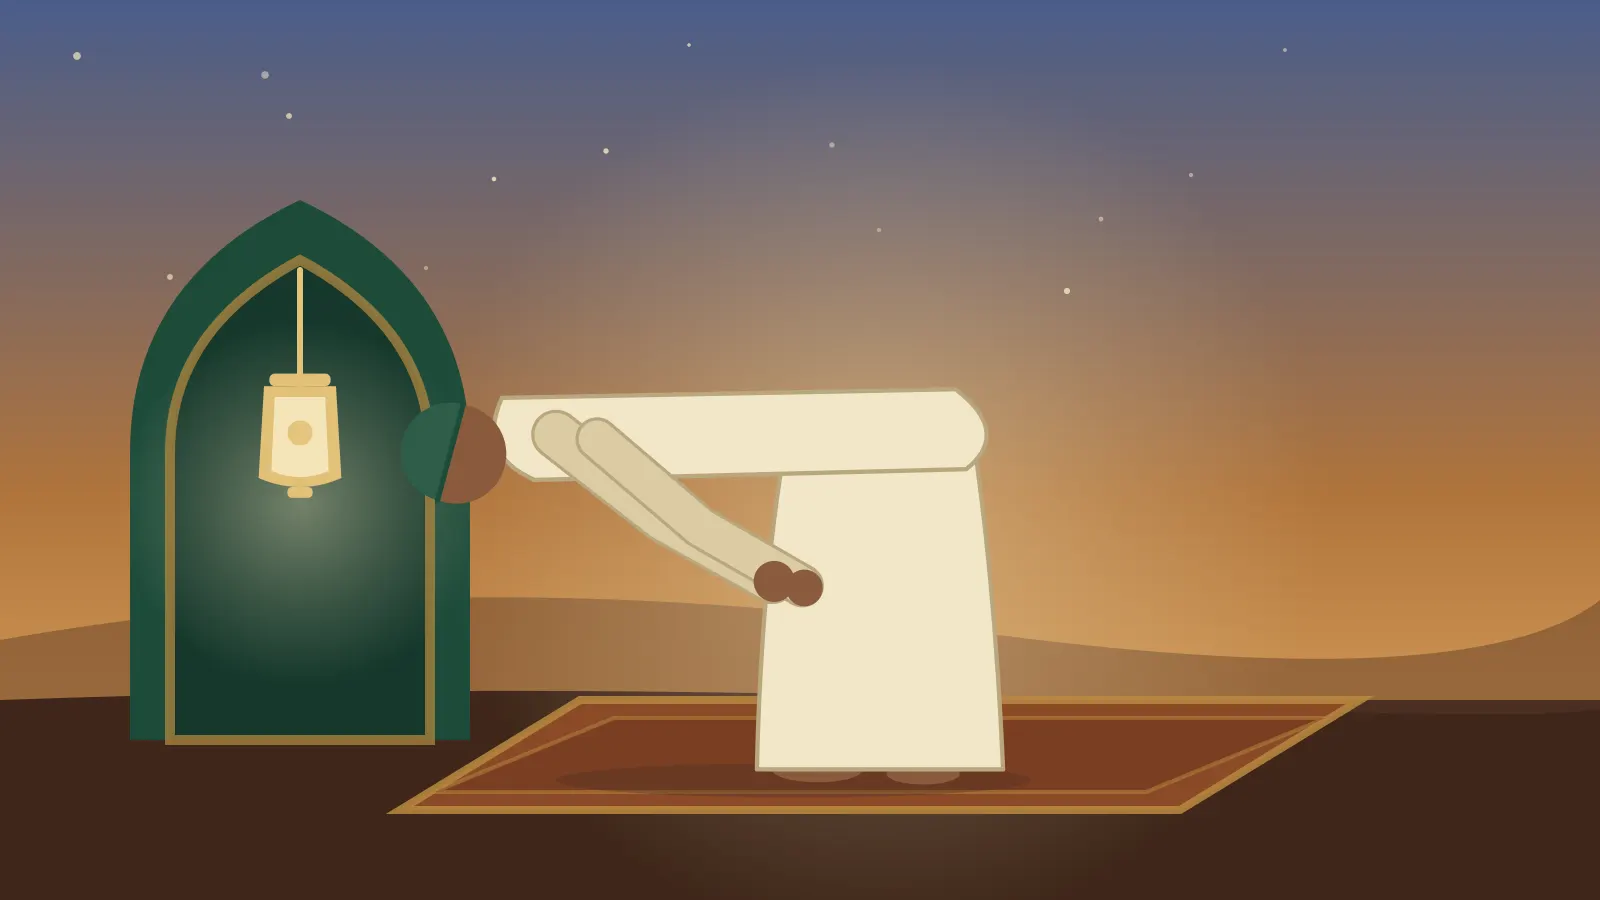
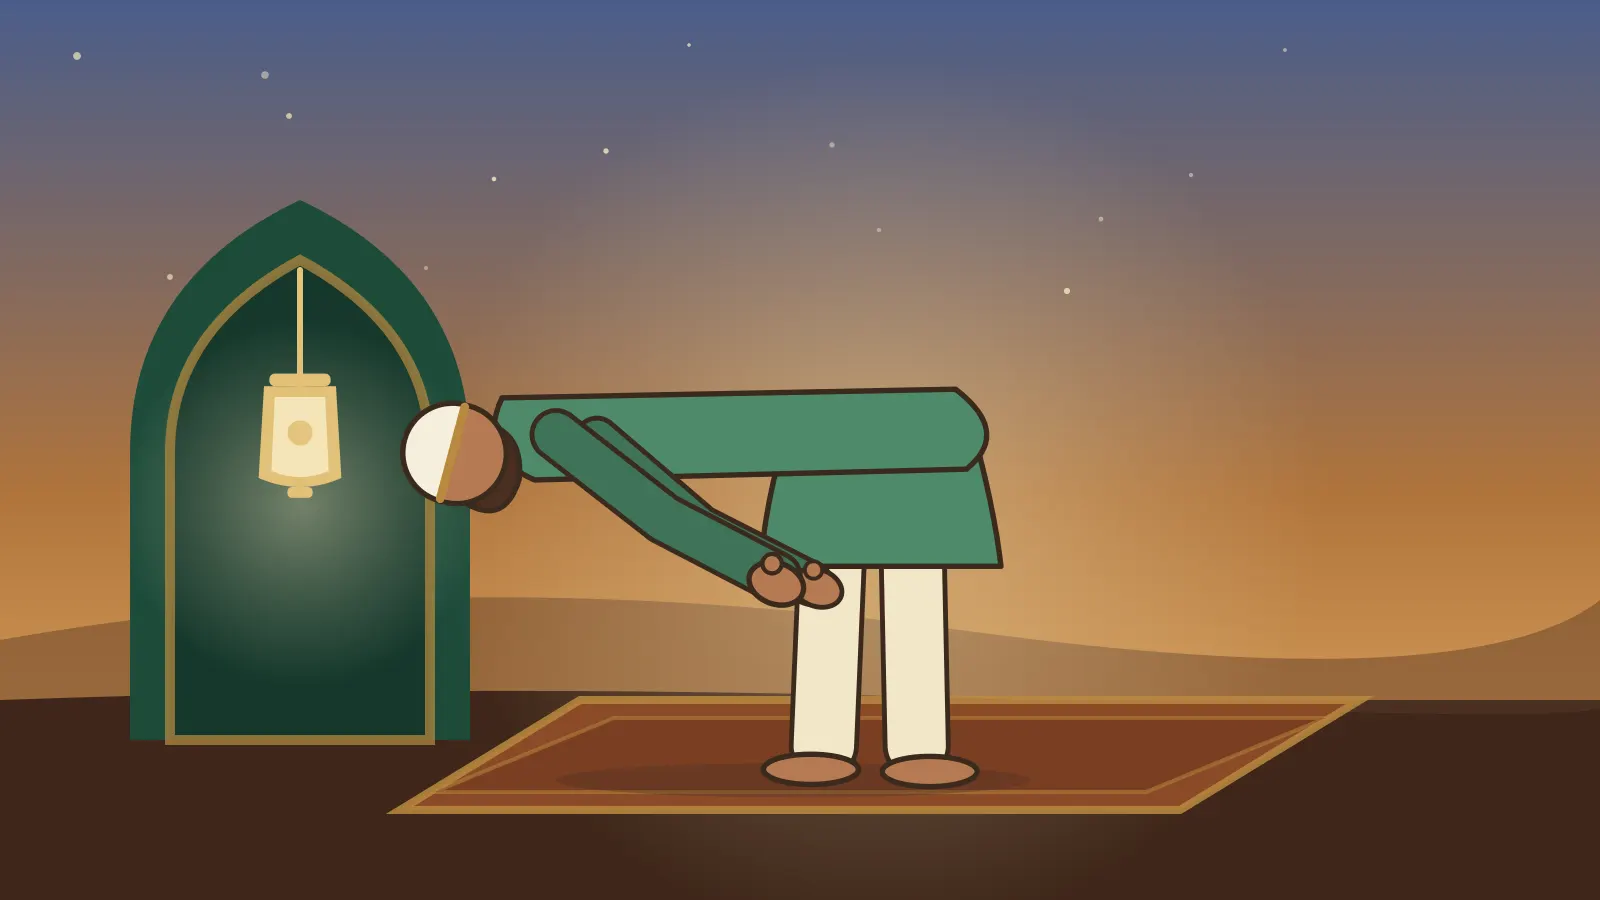
salah trainer: an outlined figure that reads like a diagram, and a takbir pose
Borrowed from the clearest guides in the store: ink outlines around every
shape, a coloured kurta over ivory trousers so the legs read as legs,
mitten hands placed where each posture puts them, and a cap and beard
that turn with the head while the face stays blank. The kurta is the
app's emerald against the dawn sky.

The takbir gets its own posture: hands raised beside the ears for the
opening takbir and every rising takbir, in the scene, in the vector
figure, and in the data. Nine scenes now, 21–24 KB each.

Changed region(s): [[0.25, 0.4044, 0.625, 0.9022]]

diff --git a/lib/features/learn/salah/widgets/prayer_posture_animator.dart b/lib/features/learn/salah/widgets/prayer_posture_animator.dart
@@ -119,6 +119,20 @@ class _Pose {
     handB: Offset(0.51, 0.47),
   );
 
+  static const _handsRaised = _Pose(
+    head: Offset(0.50, 0.17),
+    neck: Offset(0.50, 0.29),
+    hip: Offset(0.50, 0.57),
+    kneeF: Offset(0.47, 0.76),
+    kneeB: Offset(0.53, 0.76),
+    footF: Offset(0.44, 0.93),
+    footB: Offset(0.56, 0.93),
+    elbowF: Offset(0.36, 0.36),
+    handF: Offset(0.38, 0.18),
+    elbowB: Offset(0.64, 0.36),
+    handB: Offset(0.62, 0.18),
+  );
+
   static const _armsDown = _Pose(
     head: Offset(0.50, 0.17),
     neck: Offset(0.50, 0.29),
@@ -191,6 +205,8 @@ class _Pose {
 
   static _Pose of(PrayerPostureType posture) {
     switch (posture) {
+      case PrayerPostureType.takbir:
+        return _handsRaised;
       case PrayerPostureType.qiyam:
         return _standing;
       case PrayerPostureType.qawmah:

diff --git a/lib/features/learn/salah/data/salah_trainer_data.dart b/lib/features/learn/salah/data/salah_trainer_data.dart
@@ -223,7 +223,7 @@ class _SalahSteps {
       id: 'takbir_al_ihram',
       title: l10n.salahTrainerStepTakbirAlIhramTitle,
       kind: SalahRecitationKind.takbir,
-      posture: PrayerPostureType.qiyam,
+      posture: PrayerPostureType.takbir,
       arabic: 'اللَّهُ أَكْبَرُ',
       transliteration: 'Allahu akbar.',
       translation: l10n.salahTrainerStepTakbirTranslation,
@@ -240,7 +240,7 @@ class _SalahSteps {
       id: 'takbir_rising',
       title: l10n.salahTrainerStepTakbirRisingTitle,
       kind: SalahRecitationKind.takbir,
-      posture: PrayerPostureType.qiyam,
+      posture: PrayerPostureType.takbir,
       arabic: 'اللَّهُ أَكْبَرُ',
       transliteration: 'Allahu akbar.',
       translation: l10n.salahTrainerStepTakbirTranslation,

diff --git a/lib/features/learn/salah/widgets/salah_posture_art.dart b/lib/features/learn/salah/widgets/salah_posture_art.dart
@@ -10,6 +10,7 @@ import 'prayer_posture_animator.dart';
 /// the mihrab, generated by tooling/art_src/salah_art/generate_salah_art.mjs.
 String salahPostureArtAsset(PrayerPostureType posture) {
   final name = switch (posture) {
+    PrayerPostureType.takbir => 'takbir',
     PrayerPostureType.qiyam => 'qiyam',
     PrayerPostureType.ruku => 'ruku',
     PrayerPostureType.qawmah => 'qawmah',

diff --git a/lib/features/learn/salah/models/salah_trainer_models.dart b/lib/features/learn/salah/models/salah_trainer_models.dart
@@ -25,6 +25,8 @@ enum GuidedSurahMode { random, fixed, practiceSpecific }
 enum SurahLearningMode { listen, repeat, practice, memory }
 
 enum PrayerPostureType {
+  /// Standing with the hands raised for the takbir.
+  takbir,
   qiyam,
   ruku,
   qawmah,
